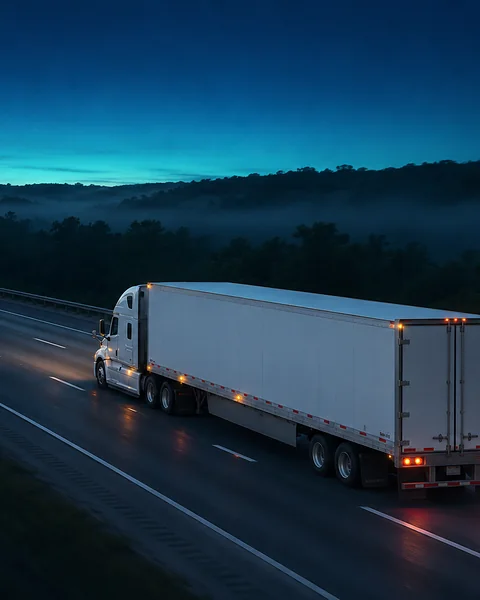
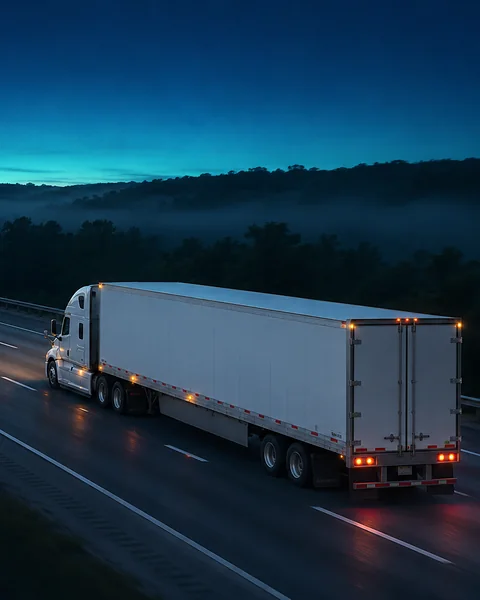
WIP fase G: plantillas apuntando a las imágenes de marca (sin revisar, solo rama de desarrollo)
Claude-Session: https://claude.ai/code/session_01GM3PNH5gUeJaHia96xSzeB

diff --git a/templates/pages/home.php b/templates/pages/home.php
@@ -35,15 +35,15 @@ $services = [
     ['num' => '01', 'title' => 'Dispatch & load booking',
      'text' => 'We search, negotiate and book freight on Amazon Relay and dry van lanes, plan routes around hours of service and coordinate every pickup with your drivers.',
      'href' => url('/dispatch-for-owner-operators/'), 'cta' => 'Dispatch for owner-operators',
-     'image' => ['base' => 'red-semi-dry-van-open-road', 'alt' => 'Red semi truck pulling a dry van on an open road', 'sizes' => $railSizes]],
+     'image' => ['base' => 'nf-trailer-dock-dusk', 'alt' => 'White dry van trailer backed into a warehouse loading dock at dusk', 'sizes' => $railSizes]],
     ['num' => '02', 'title' => 'Load tracking & check calls',
      'text' => 'Every trip followed from pickup to POD: ETAs, arrivals and departures logged, incidents documented and brokers kept informed, so you are not on the phone.',
      'href' => url('/load-tracking/'), 'cta' => 'Load tracking',
-     'image' => ['base' => 'two-semis-hillside-highway', 'alt' => 'Two semi trucks on a highway through the hills', 'sizes' => $railSizes]],
+     'image' => ['base' => 'nf-phone-route-rain-highway', 'alt' => 'Hand holding a phone with a route line while a semi truck drives past on a rainy highway', 'sizes' => $railSizes]],
     ['num' => '03', 'title' => 'Trucking back office',
      'text' => 'Paperwork organized, settlements prepared and disputes followed with evidence. We also help onboard new drivers so they are ready to roll on day one.',
      'href' => url('/trucking-back-office/'), 'cta' => 'Back office services',
-     'image' => ['base' => 'dry-van-trailers-loading-docks', 'alt' => 'Dry van trailers backed into warehouse loading docks', 'sizes' => $railSizes]],
+     'image' => ['base' => 'nf-logistics-desk-cyan', 'alt' => 'Desk at night with a laptop, a tablet showing a table, a stack of paperwork and a pen under a lamp', 'sizes' => $railSizes]],
 ];
 
 $relay = [
@@ -56,23 +56,23 @@ $relay = [
 // 03 Why a desk: tres razones ya afirmadas en el sitio (How it works, Our desk, Evidence). Cada una enlaza a la página donde se explica (son los elementos enfocables del sticky).
 $why = [
     ['01', 'One channel for every update', 'Updates you can follow, in one channel: WhatsApp, where you already work.',
-     'headset-agent-office', '/load-tracking/', 'Load tracking'],
+     'nf-phone-chat-dashboard', '/load-tracking/', 'Load tracking'],
     ['02', 'A record of every load', 'Arrival timestamps and photos kept on file, with the BOL and POD filed per load.',
-     'archive-shelves-documents', '/trucking-back-office/', 'Trucking back office'],
+     'nf-archive-aisle-cyan', '/trucking-back-office/', 'Trucking back office'],
     ['03', 'A team behind every load', 'The same desk books, tracks and documents every load, as one team.',
-     'dispatch-desk-headset-monitors', '/how-it-works/', 'How it works'],
+     'nf-dispatch-room-maps', '/how-it-works/', 'How it works'],
 ];
 
 // 04 Onboarding: foto decorativa por paso (alt descriptivo corto)
 $steps = [
     ['01', 'We learn your operation', 'Trucks, equipment, lanes, drivers and the accounts you already run, including Amazon Relay.',
-     ['base' => 'team-reviewing-documents', 'alt' => 'Two people going over a printed document at a desk']],
+     ['base' => 'nf-hands-map-keys', 'alt' => 'Two hands resting on a route map beside a truck key and a notebook']],
     ['02', 'We define scope & contacts', 'Who approves loads, how we report, and which tasks the desk owns from day one.',
-     ['base' => 'clipboard-signing-report', 'alt' => 'Hand filling in a report on a clipboard']],
+     ['base' => 'nf-signing-clipboard-night', 'alt' => 'Hand signing a form on a clipboard at night, with a trailer out of focus behind']],
     ['03', 'We run the day-to-day', 'Booking, tracking and documenting every load, with updates where you already work: WhatsApp.',
-     ['base' => 'truck-night-mountain-road', 'alt' => 'Semi truck driving a mountain road at night']],
+     ['base' => 'nf-white-truck-rainy-highway', 'alt' => 'White semi truck with a dry van trailer driving a wet highway at night']],
     ['04', 'We review & improve', 'Regular reviews of lanes, rates and incidents to keep your trucks earning.',
-     ['base' => 'aerial-trucks-parking-lot', 'alt' => 'Aerial view of semi trailers lined up in a truck lot']],
+     ['base' => 'nf-trailer-rows-aerial', 'alt' => 'Aerial view of white trailers lined up in rows in a truck lot at night']],
 ];
 
 $chapters = [
@@ -98,12 +98,13 @@ $figures = [
     ['0', 'forms before you talk to us'],
 ];
 ?>
-<!-- HERO: foto protagonista (degradado solo desde la izquierda y abajo) + titular + widget de WhatsApp. El <video> va vacío y sin descarga (preload none, sin src): main.js le pone la fuente tras load + idle en >=1025px y entra con un fundido sobre la foto (que sigue siendo el LCP). La foto es el primer fotograma del propio video (assets/video/hero-poster-*.webp, 1920×1080; recortes hero-poster-m-* en ≤760 px y hero-poster-sq-* en 761 a 1024 px), así que el paso foto → video no se ve -->
+<!-- HERO: foto protagonista (Night Freight: nf-highway-dusk-white-trucks; degradado solo desde la izquierda y abajo) + titular + widget de WhatsApp. Recortes reales: -m (4:5, ≤760 px) y -sq (cuadrado, 761 a 1024 px); en escritorio la foto 16:9 completa con srcset 1024/1280/1600/1672.
+     Slot de video: si existe assets/video/hero.mp4 (o .webm) $heroVideo lo activa: el <video> va vacío (preload none, sin src) y main.js le pone la fuente tras load + idle en >=1025px, con fundido sobre la foto (que sigue siendo el LCP). Sin archivos no se emite nada y no hay peticiones. -->
 <section class="hero hero--home" id="top">
-  <div class="hero__bg"<?= $heroVideo ? ' data-hero-video data-mp4="' . e($heroVideo['mp4'] ?? '') . '" data-webm="' . e($heroVideo['webm'] ?? '') . '" data-poster="' . e($heroVideo['poster'] ?? '') . '"' : '' ?>><?= ns_img(['dir' => 'video', 'base' => 'hero-poster', 'widths' => [1280, 1920], 'alt' => 'Aerial view of trucks and cars on a busy highway lined with trees at sunset', 'eager' => true, 'sizes' => '100vw',
+  <div class="hero__bg"<?= $heroVideo ? ' data-hero-video data-mp4="' . e($heroVideo['mp4'] ?? '') . '" data-webm="' . e($heroVideo['webm'] ?? '') . '"' : '' ?>><?= ns_img(['base' => 'nf-highway-dusk-white-trucks', 'widths' => [1024, 1280, 1600, 1672], 'alt' => 'White semi truck with a dry van trailer on a highway at dusk, with a second truck far ahead', 'eager' => true, 'sizes' => '100vw',
         'art' => [
-            ['media' => '(max-width:760px)', 'base' => 'hero-poster-m', 'sizes' => '250px'],   // móvil: recorte 1,17:1 (el marco es 366×312); se declara 250 px a propósito (440 w a DPR ≤1,75: ampliación x1,46; 640 w a DPR 2: x1,14; 948 w a DPR 3) para no subir el LCP móvil
-            ['media' => '(max-width:1024px)', 'base' => 'hero-poster-sq', 'widths' => [640, 1080], 'sizes' => '100vw']]]) ?><?php if ($heroVideo): ?><video class="hero__video" muted loop playsinline preload="none" aria-hidden="true" tabindex="-1"></video><?php endif; ?></div>
+            ['media' => '(max-width:760px)', 'base' => 'nf-highway-dusk-white-trucks-m', 'sizes' => '100vw'],   // móvil: recorte 4:5 real (753×941), camión principal entero
+            ['media' => '(max-width:1024px)', 'base' => 'nf-highway-dusk-white-trucks-sq', 'sizes' => '100vw']]]) ?><?php if ($heroVideo): ?><video class="hero__video" muted loop playsinline preload="none" aria-hidden="true" tabindex="-1"></video><?php endif; ?></div>
   <div class="container hero__in">
     <div class="hero__main">
       <h1 class="eyebrow home-kicker"><?= e($route['h1']) ?></h1>
@@ -158,7 +159,7 @@ $figures = [
 <section class="section home-services" id="services" aria-labelledby="services-title">
   <div class="home-services__pin">
     <div class="container">
-      <?php partial('section-head', ['eyebrow' => '01 · What we manage', 'title' => 'Three fronts.{pill:semi-truck-snowy-mountains}{br}One dispatch desk.{pill:white-semi-truck-front}', 'id' => 'services-title', 'split' => true,
+      <?php partial('section-head', ['eyebrow' => '01 · What we manage', 'title' => 'Three fronts.{pill:nf-truck-lights-rain-front}{br}One dispatch desk.{pill:nf-white-truck-cyan-horizon}', 'id' => 'services-title', 'split' => true,
           'lead' => 'Most truck dispatch companies stop at the booking. We stay on the load until the money is in. The same team that books it tracks it and closes it out.']); ?>
     </div>
     <div class="container home-rail">
@@ -254,7 +255,7 @@ $figures = [
     </div>
     <div class="home-team__video">
       <?php partial('video', ['part' => 'player', 'id' => 'desk',
-          'image' => ['base' => 'dispatch-team-headsets-office', 'alt' => 'Dispatchers wearing headsets at their workstations'],
+          'image' => ['base' => 'nf-dispatch-room-wide-night', 'alt' => 'Dispatch room at night with rows of monitors showing route maps and empty chairs'],
           'title' => 'A load doesn’t dispatch itself. {hl}There’s a team behind it.{/hl}', 'meta' => 'Video · 3 to 4 min']); ?>
     </div>
   </div>
@@ -295,13 +296,12 @@ $figures = [
   </div>
 </section>
 
-<!-- Banda de video: patio de carga (solo >=1025px; en móvil, movimiento reducido o saveData queda el póster). Sin H2 nuevo: el texto es un <p> con copy ya existente (evidencia) -->
+<!-- Banda de imagen (slot de video): foto fija nf-trailer-dock-night-mist con la tarjeta de texto. Para reactivar el video: subir assets/video/freight-yard.mp4 y pasar 'video' => 'freight-yard' (solo >=1025px, tras load + idle). Sin H2 nuevo: el texto es un <p> con copy ya existente (evidencia) -->
 <?php partial('video-band', [
-    'video'  => 'freight-yard',
+    'image'  => ['base' => 'nf-trailer-dock-night-mist', 'alt' => 'White semi truck and dry van parked in front of a warehouse dock in the night mist'],
     'text'   => 'Every load leaves a record: rate confirmation, check-call log, arrival timestamps, BOL and POD.',
-    'alt'    => 'Aerial view of a freight yard with semi trailers',
 ]); ?>
 
 <!-- 07 FAQ -->
 <?php partial('faq', ['items' => route_faq_items($route), 'eyebrow' => '07 · FAQ', 'title' => 'Truck dispatch questions carriers ask us.', 'pre_cta' => true,
-    'image' => ['base' => 'warehouse-sunlight-dock-tall', 'alt' => 'Sunlight streaming into a warehouse loading bay', 'sizes' => '(min-width:1025px) 560px, 0px']]); ?>
+    'image' => ['base' => 'nf-dock-door-amber-night', 'alt' => 'Open loading dock door glowing under an amber lamp at night', 'sizes' => '(min-width:1025px) 660px, 0px']]); ?>

diff --git a/templates/partials/video-band.php b/templates/partials/video-band.php
@@ -1,31 +1,26 @@
 <?php
 /**
- * Banda de video: banda ancha (radio 32, 21:9 en >=761px) con un video en bucle y una tarjeta de texto encima (copy ya existente, sin H2).
- * Sin JS, en móvil (<1025px), con prefers-reduced-motion o saveData: solo el póster estático (primer fotograma del bucle, WebP 1920 con variantes 640 y 1280).
- * Con >=1025px main.js monta el video (muted, loop, playsinline, preload none) cuando la banda se acerca a la pantalla (tras load + idle) y lo pausa al salir; si falla queda el póster.
- * motion.js hace un parallax ligero de la capa .vband__layer (póster y video juntos) con scrub, sin tocar el bucle.
- * La tarjeta de texto va sobre un fondo sólido casi opaco (--glass-strong): contraste AA medido sobre el peor fotograma. En <761px va debajo de la imagen.
- * Params: video(string: assets/video/<video>.mp4 y <video>-poster-{640,1280,1920}.webp), text(string con marcas), alt(string del póster). Si falta el mp4 o el póster no pinta nada.
+ * Banda de imagen con slot de video: banda ancha (radio 32, 21:9 en >=761px) con una foto y una tarjeta de texto encima (copy ya existente, sin H2).
+ * Hoy es una foto fija (Night Freight). El slot de video sigue listo: si se pasa `video` y existen assets/video/<video>.mp4 (el póster es la foto `image`),
+ * con >=1025px main.js monta el video (muted, loop, playsinline, preload none) cuando la banda se acerca a la pantalla (tras load + idle) y lo pausa al salir;
+ * sin JS, en móvil, con prefers-reduced-motion o saveData (o si el video falla) queda la foto. Sin el mp4 no se emite <video> ni data-vband: cero peticiones extra.
+ * motion.js hace un parallax ligero de la capa .vband__layer con scrub (no toca el bucle del video).
+ * La tarjeta de texto va sobre un fondo sólido casi opaco (--glass-strong): contraste AA medido. En <761px va debajo de la imagen.
+ * Params: image(array ['base','alt']: foto 3:2, variantes en assets/img/<base>-{ancho}.webp), text(string con marcas), video(string opcional: assets/video/<video>.mp4).
  */
 require_once __DIR__ . '/kit.php';
-$video = (string) ($video ?? '');
-if (preg_match('/^[a-z0-9-]+$/', $video) !== 1 || !is_file(NS_ROOT . "/assets/video/$video.mp4") || !is_file(NS_ROOT . "/assets/video/$video-poster-1920.webp")) {
+$image = is_array($image ?? null) && !empty($image['base']) ? $image : null;
+if ($image === null) {
     return;
 }
-$g = @getimagesize(NS_ROOT . "/assets/video/$video-poster-1920.webp");
-$set = [];
-foreach ([640, 1280, 1920] as $pw) {
-    if (is_file(NS_ROOT . "/assets/video/$video-poster-$pw.webp")) {
-        $set[] = asset("video/$video-poster-$pw.webp") . " {$pw}w";
-    }
-}
-// Ancho útil del póster: en escritorio la capa mide ~110 % del alto del marco 21:9 (cover por ancho, ~100vw); en móvil es 4:3 y manda el alto
+$video = (string) ($video ?? '');
+$hasVideo = preg_match('/^[a-z0-9-]+$/', $video) === 1 && is_file(NS_ROOT . "/assets/video/$video.mp4");
 ?>
 <div class="vband">
-  <figure class="vband__media" data-vband data-mp4="<?= e(asset("video/$video.mp4")) ?>">
+  <figure class="vband__media"<?= $hasVideo ? ' data-vband data-mp4="' . e(asset("video/$video.mp4")) . '"' : '' ?>>
     <div class="vband__layer">
-      <img class="vband__poster" src="<?= e(asset("video/$video-poster-1920.webp")) ?>" srcset="<?= e(implode(', ', $set)) ?>" sizes="(min-width:761px) 100vw, 320px" alt="<?= e($alt ?? '') ?>"<?= $g ? ' width="' . $g[0] . '" height="' . $g[1] . '"' : '' ?> loading="lazy" decoding="async">
-      <video class="vband__video" muted loop playsinline preload="none" aria-hidden="true" tabindex="-1"></video>
+      <?= ns_img(['base' => (string) $image['base'], 'alt' => (string) ($image['alt'] ?? ''), 'class' => 'vband__poster', 'sizes' => '(min-width:761px) 100vw, calc(100vw - 72px)']) ?>
+      <?php if ($hasVideo): ?><video class="vband__video" muted loop playsinline preload="none" aria-hidden="true" tabindex="-1"></video><?php endif; ?>
     </div>
     <figcaption class="vband__card"><p class="vband__text"><?= ns_rich($text ?? '') ?></p></figcaption>
   </figure>

diff --git a/templates/pages/relay.php b/templates/pages/relay.php
@@ -26,7 +26,7 @@ partial('hero', [
     'ctas'  => [
         ['label' => 'Ask about Relay dispatch', 'href' => wa($route['wa']), 'wa' => true, 'arrow' => true],
     ],
-    'image' => ['base' => 'white-semi-truck-front', 'alt' => 'White semi truck with a dry van trailer pulling out of a lot'],
+    'image' => ['base' => 'nf-hitching-trailer-rain', 'alt' => 'White semi truck backing under a dry van trailer in the rain at night'],
 ]);
 
 // Resumen "In short" (SEO/GEO): editable aquí. Solo información que ya está en el copy de esta página; sin cifras, tarifas ni promesas nuevas.
@@ -61,7 +61,7 @@ partial('summary', [
       ]); ?>
     </div>
     <div class="sa-media px">
-      <?= ns_img(['base' => 'dry-van-trailers-loading-docks', 'alt' => 'Dry van trailers backed into warehouse loading docks', 'sizes' => '(min-width:1025px) 640px, (min-width:641px) 100vw, 640px']) ?>
+      <?= ns_img(['base' => 'nf-tablet-cab-night-yard', 'alt' => 'Tablet mounted in a truck cab at night with a yard full of trailers beyond the windshield', 'sizes' => '(min-width:1025px) 760px, (min-width:641px) 100vw, 640px']) ?>
     </div>
   </div>
 </section>

diff --git a/templates/pages/backoffice.php b/templates/pages/backoffice.php
@@ -21,7 +21,7 @@ partial('hero', [
     'tagline' => 'The work behind the load, done right.',
     'lead'    => 'Paperwork organized, settlements prepared and disputes followed until they close.',
     'ctas'    => [['label' => 'Talk to the desk', 'href' => wa($route['wa']), 'wa' => true, 'arrow' => true]],
-    'image'   => ['base' => 'archive-shelves-documents', 'alt' => 'Aisle of archive shelves with document boxes and folders'],
+    'image'   => ['base' => 'nf-desk-rain-window-night', 'alt' => 'Desk at night with a lamp, a stack of paper and a laptop beside a rain-covered window'],
 ]);
 
 // Resumen "In short" (SEO/GEO): editable aquí. Solo información que ya está en el copy de esta página; sin cifras, tarifas ni promesas nuevas.

diff --git a/templates/partials/hero.php b/templates/partials/hero.php
@@ -47,7 +47,7 @@ $ctas = $ctas ?? [];
     <?php if ($image || $aside !== ''): ?>
     <div class="hero__aside">
       <?php if ($image): ?>
-      <figure class="hero__photo px<?= !empty($image['small']) ? ' hero__photo--s' : '' ?>"><?= ns_img(['base' => $image['base'], 'alt' => $image['alt'] ?? '', 'eager' => true, 'sizes' => $image['sizes'] ?? '(min-width:1025px) 700px, calc(100vw - 72px)']) ?></figure>
+      <figure class="hero__photo px<?= !empty($image['small']) ? ' hero__photo--s' : '' ?>"><?= ns_img(['base' => $image['base'], 'alt' => $image['alt'] ?? '', 'eager' => true, 'sizes' => $image['sizes'] ?? '(min-width:1025px) 770px, calc(100vw - 72px)']) ?></figure>
       <?php endif; ?>
       <?= $aside ?>
     </div>

diff --git a/templates/pages/how.php b/templates/pages/how.php
@@ -19,7 +19,7 @@ partial('hero', [
     'eyebrow' => 'How we plug into your operation',
     'h1'    => 'How truck dispatching works {hl}with NorthStar{/hl}',
     'lead'  => 'Hiring a dispatch company should not mean losing control of your trucks. Here is exactly how we start and how we work with you every day.',
-    'image' => ['base' => 'two-semis-hillside-highway', 'alt' => 'Two semi trucks on a highway through the hills'],
+    'image' => ['base' => 'nf-route-map-night-trucks-43', 'alt' => 'Glowing route lines over a dark map with trucks on a night highway'],
 ]);
 
 // Resumen "In short" (SEO/GEO): editable aquí. Solo información que ya está en el copy de esta página; sin cifras, tarifas ni promesas nuevas.

diff --git a/templates/partials/mega-services.php b/templates/partials/mega-services.php
@@ -31,7 +31,7 @@ $relayLive = route_is_live('/amazon-relay-dispatch/');
     </div>
     <?php if ($relayLive): ?>
     <a class="mega__feature" href="<?= e(url('/amazon-relay-dispatch/')) ?>">
-      <span class="mega__feature-img"><?= ns_img(['base' => 'dry-van-trailer-highway-dusk', 'alt' => '', 'sizes' => '380px', 'widths' => [640]]) ?></span>
+      <span class="mega__feature-img"><?= ns_img(['base' => 'nf-trailer-dock-night-wide', 'alt' => '', 'sizes' => '380px', 'widths' => [640, 1024]]) ?></span>
       <span class="mega__feature-body">
         <span class="t-meta c-cyan-light">Our specialty</span>
         <span class="head mega__feature-title">Amazon Relay, handled end to end</span>

diff --git a/app/config.php b/app/config.php
@@ -75,7 +75,7 @@ ns_default('HERO_HEADLINES', [
     'B' => 'Booked. Tracked. Documented.',
 ]);
 // Foto de fondo del CTA final (assets/img/<base>-{640,1024,1280}.webp + .jpg). '' = panel liso. Una ruta puede anularla con 'cta_image' => 'base' | '' | false.
-ns_default('CTA_IMAGE', 'truck-night-rain-headlights');
+ns_default('CTA_IMAGE', 'nf-lone-truck-rain-night');
 ns_default('SHOW_RESOURCES', true);         // Resources y Blog en nav/footer (activos desde Fase 1)
 ns_default('SHOW_ON_SHIFT', true);          // barra "On shift" + relojes (replica la maqueta; revisar al confirmar horario)
 ns_default('SHOW_EQUIPMENT_CHIPS', false);  // chips "By equipment" del mega menú

diff --git a/templates/pages/owner.php b/templates/pages/owner.php
@@ -28,7 +28,7 @@ partial('hero', [
         ['label' => 'Talk to a dispatcher', 'href' => wa($route['wa']), 'wa' => true, 'arrow' => true],
         ['label' => 'How we onboard', 'href' => url('/how-it-works/'), 'variant' => 'ghost'],
     ],
-    'image'   => ['base' => 'truck-oncoming-dusk-mirror', 'alt' => 'Semi truck approaching at dusk, seen from a car’s side mirror'],
+    'image'   => ['base' => 'nf-cab-interior-cyan-night', 'alt' => 'Truck cab at night with a phone on the dashboard and a highway ahead'],
 ]);
 
 // Resumen "In short" (SEO/GEO): editable aquí. Solo información que ya está en el copy de esta página; sin cifras, tarifas ni promesas nuevas.

diff --git a/templates/pages/dryvan.php b/templates/pages/dryvan.php
@@ -22,7 +22,7 @@ partial('hero', [
     'ctas'  => [
         ['label' => 'Talk to a dispatcher', 'href' => wa($route['wa']), 'wa' => true, 'arrow' => true],
     ],
-    'image' => ['base' => 'red-semi-dry-van-open-road', 'alt' => 'Red semi truck pulling a dry van on an open road'],
+    'image' => ['base' => 'nf-white-truck-cyan-horizon-43', 'alt' => 'White semi truck pulling a dry van trailer at dusk under a cyan horizon'],
 ]);
 
 // Resumen "In short" (SEO/GEO): editable aquí. Solo información que ya está en el copy de esta página; sin cifras, tarifas ni promesas nuevas.

diff --git a/templates/pages/tracking.php b/templates/pages/tracking.php
@@ -70,7 +70,7 @@ partial('summary', [
     </div>
     <div class="sb-media">
       <div class="sb-media__clip px">
-        <?= ns_img(['base' => 'two-semis-hillside-highway', 'alt' => 'Two semi trucks on a highway through the hills', 'sizes' => '(min-width:1025px) 640px, (min-width:641px) 100vw, 640px']) ?>
+        <?= ns_img(['base' => 'nf-highway-side-mirror-night', 'alt' => 'Night highway with trucks seen in a truck’s side mirror', 'sizes' => '(min-width:1025px) 760px, (min-width:641px) 100vw, 640px']) ?>
       </div>
     </div>
   </div>

diff --git a/templates/pages/desk.php b/templates/pages/desk.php
@@ -45,7 +45,7 @@ $reasons = [
       <?php partial('video', [
           'part'  => 'player',
           'id'    => 'desk',
-          'image' => ['base' => 'dispatch-team-headsets-office', 'alt' => 'Dispatchers wearing headsets at their workstations'],
+          'image' => ['base' => 'nf-dispatch-room-maps', 'alt' => 'Dispatch room at night with monitors showing route maps and an empty chair'],
           'title' => 'Meet the desk {hl}· 3 chapters{/hl}',
           'meta'  => 'Video · 3 to 4 min',
       ]); ?>
